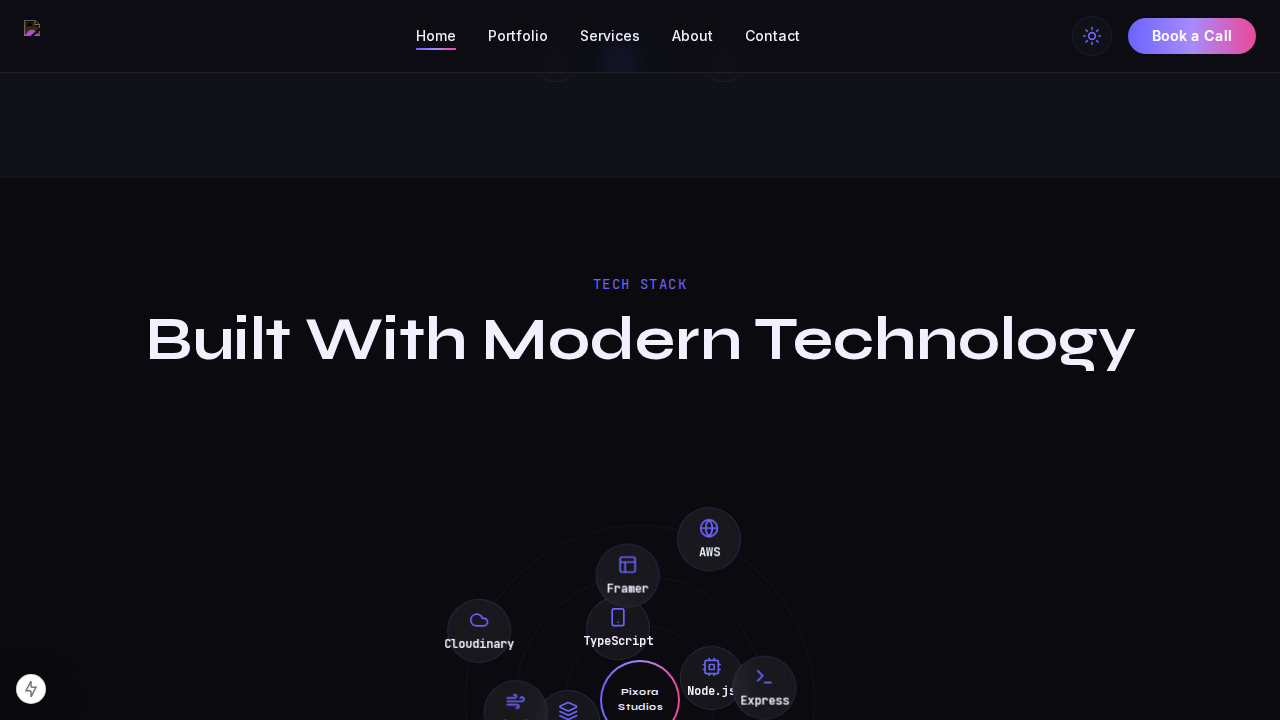
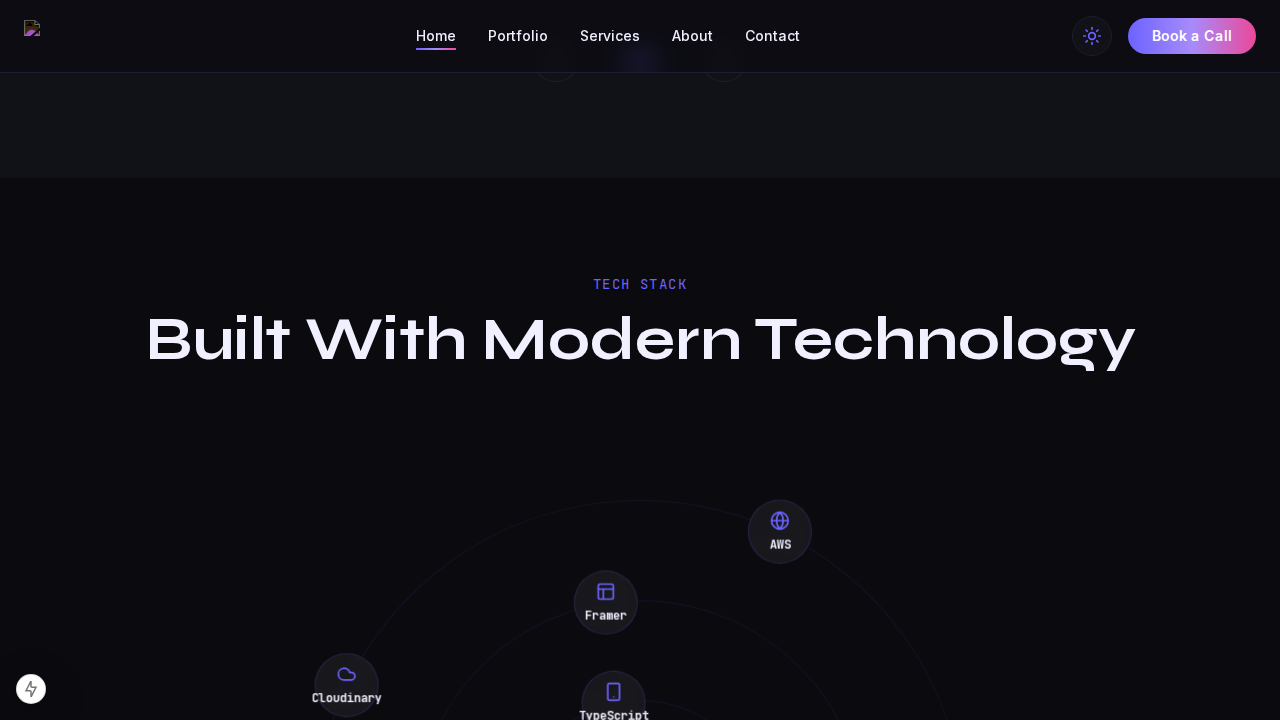
refactor: optimize TechStack orbital radius for visual balance
- Adjusted TechStack orbital diameters to 250px, 450px, and 650px
- Set container height to 750px for better vertical spacing
- Corrected previous over-reduction that caused element overlap
- Ensured visualization remains within standard viewport heights

diff --git a/components/home/TechStack.tsx b/components/home/TechStack.tsx
@@ -96,16 +96,16 @@ export function TechStack() {
           </motion.h2>
         </div>
 
-        <div className="relative h-[500px] flex items-center justify-center" ref={orbitRef}>
+        <div className="relative h-[750px] flex items-center justify-center" ref={orbitRef}>
           {/* Center Badge */}
           <motion.div
             initial={{ scale: 0 }}
             whileInView={{ scale: 1 }}
             viewport={{ once: true }}
-            className="w-20 h-20 rounded-full bg-gradient-light dark:bg-gradient-primary p-[2px] z-20"
+            className="w-28 h-28 rounded-full bg-gradient-light dark:bg-gradient-primary p-[2px] z-20"
           >
-            <div className="w-full h-full rounded-full bg-background-light dark:bg-background-dark flex items-center justify-center text-center p-2">
-              <span className="font-display font-bold text-[10px]">Pixora Studios</span>
+            <div className="w-full h-full rounded-full bg-background-light dark:bg-background-dark flex items-center justify-center text-center p-4">
+              <span className="font-display font-bold text-sm">Pixora Studios</span>
             </div>
           </motion.div>
 
@@ -115,8 +115,8 @@ export function TechStack() {
               key={ring}
               className={`absolute border border-primary-light/10 dark:border-primary-dark/10 rounded-full orbit-ring`}
               style={{
-                width: `${150 + i * 100}px`,
-                height: `${150 + i * 100}px`,
+                width: `${250 + i * 200}px`,
+                height: `${250 + i * 200}px`,
               }}
             >
               {techStack.slice(i * 4, (i + 1) * 4).map((tech, j) => (
@@ -126,7 +126,7 @@ export function TechStack() {
                   style={{
                     top: "50%",
                     left: "50%",
-                    transform: `translate(-50%, -50%) rotate(${j * 90}deg) translate(${(150 + i * 100) / 2}px)`,
+                    transform: `translate(-50%, -50%) rotate(${j * 90}deg) translate(${(250 + i * 200) / 2}px)`,
                   }}
                 >
                   <div className="flex flex-col items-center justify-center space-y-1.5 w-12 h-12 md:w-16 md:h-16 p-4 rounded-full glass border border-primary-light/20 dark:border-primary-dark/20 text-xs font-bold tech-icon-inner">
